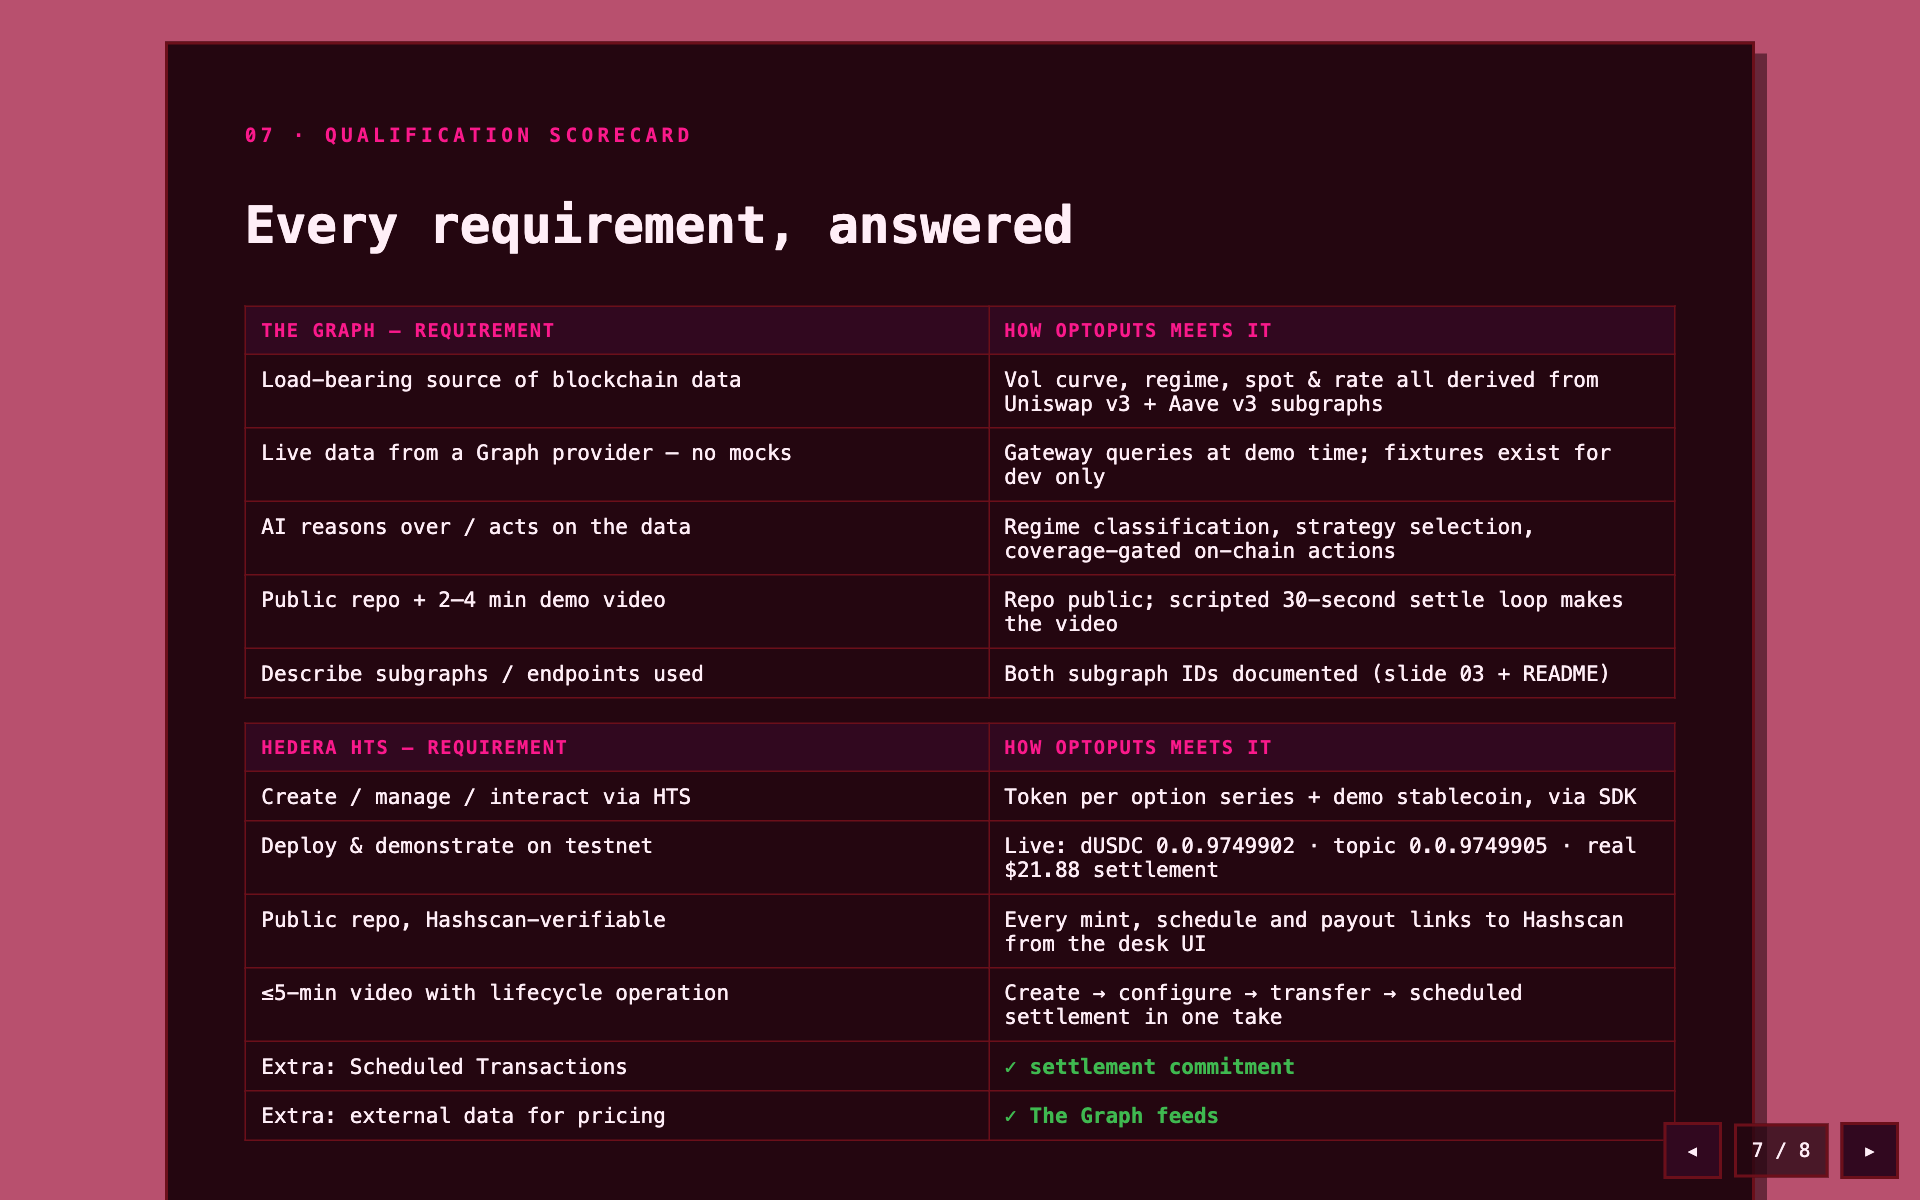
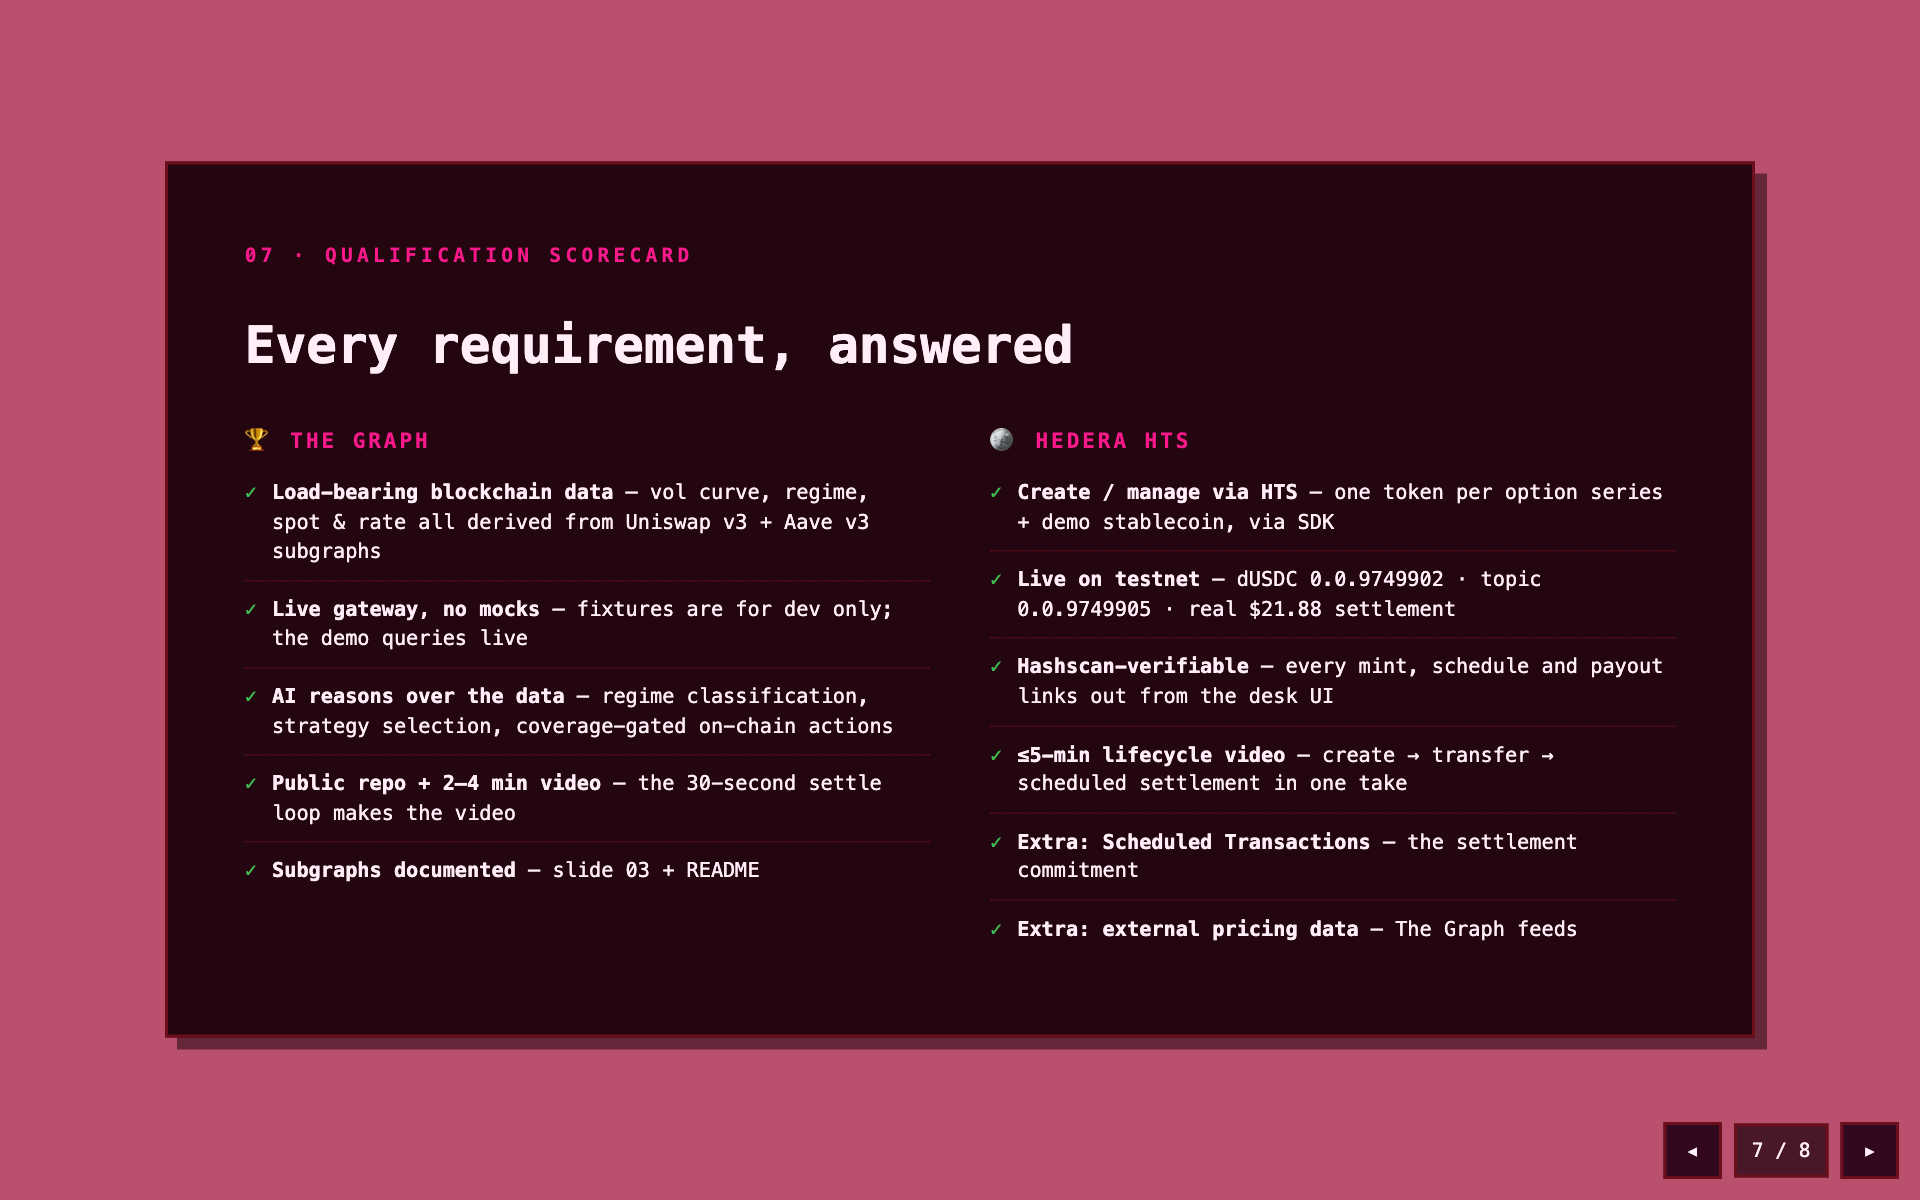
Deck: scorecard slide as flat two-column checklist, fits slide proportions
No nested rectangles: bordered tables replaced by tick rows with dotted
rules. README keeps the slide images only, no header links.

diff --git a/docs/pitch-deck.html b/docs/pitch-deck.html
@@ -132,6 +132,14 @@
   }
   .ledger b { color: var(--accent); }
 
+  /* scorecard: flat checklists — rules, not nested boxes */
+  .scoregrid { display: grid; grid-template-columns: repeat(auto-fit, minmax(300px, 1fr)); gap: 10px 40px; }
+  .scorecol { display: flex; flex-direction: column; }
+  .scorehead { margin: 0 0 4px; color: var(--accent); font-weight: 700; letter-spacing: 0.14em; text-transform: uppercase; font-size: 14px; }
+  .req { display: flex; gap: 10px; padding: 9px 0; border-bottom: 1px dotted var(--chrome); font-size: 13.5px; line-height: 1.45; }
+  .req:last-child { border-bottom: none; }
+  .req p { margin: 0; }
+  .req .tick { color: var(--green); font-weight: 700; }
   .steps { counter-reset: step; display: grid; grid-template-columns: repeat(auto-fit, minmax(200px, 1fr)); gap: 14px; }
   .step { background: var(--panel); border: 2px solid var(--chrome); padding: 14px; }
   .step::before {
@@ -289,23 +297,25 @@
 <section class="slide" id="s8"><div class="card stack">
   <p class="eyebrow">07 · Qualification scorecard</p>
   <h2>Every requirement, answered</h2>
-  <div class="tablewrap"><table>
-    <tr><th style="width:52%">The Graph — requirement</th><th>How OptoPuts meets it</th></tr>
-    <tr><td>Load-bearing source of blockchain data</td><td class="num">Vol curve, regime, spot &amp; rate all derived from Uniswap v3 + Aave v3 subgraphs</td></tr>
-    <tr><td>Live data from a Graph provider — no mocks</td><td>Gateway queries at demo time; fixtures exist for dev only</td></tr>
-    <tr><td>AI reasons over / acts on the data</td><td>Regime classification, strategy selection, coverage-gated on-chain actions</td></tr>
-    <tr><td>Public repo + 2–4 min demo video</td><td>Repo public; scripted 30-second settle loop makes the video</td></tr>
-    <tr><td>Describe subgraphs / endpoints used</td><td>Both subgraph IDs documented (slide 03 + README)</td></tr>
-  </table></div>
-  <div class="tablewrap"><table>
-    <tr><th style="width:52%">Hedera HTS — requirement</th><th>How OptoPuts meets it</th></tr>
-    <tr><td>Create / manage / interact via HTS</td><td>Token per option series + demo stablecoin, via SDK</td></tr>
-    <tr><td>Deploy &amp; demonstrate on testnet</td><td class="num">Live: dUSDC 0.0.9749902 · topic 0.0.9749905 · real $21.88 settlement</td></tr>
-    <tr><td>Public repo, Hashscan-verifiable</td><td>Every mint, schedule and payout links to Hashscan from the desk UI</td></tr>
-    <tr><td>≤5-min video with lifecycle operation</td><td>Create → configure → transfer → scheduled settlement in one take</td></tr>
-    <tr><td>Extra: Scheduled Transactions</td><td class="ok">✓ settlement commitment</td></tr>
-    <tr><td>Extra: external data for pricing</td><td class="ok">✓ The Graph feeds</td></tr>
-  </table></div>
+  <div class="scoregrid">
+    <div class="scorecol">
+      <p class="scorehead">🏆 The Graph</p>
+      <div class="req"><span class="tick">✓</span><p><b>Load-bearing blockchain data</b> — vol curve, regime, spot &amp; rate all derived from Uniswap v3 + Aave v3 subgraphs</p></div>
+      <div class="req"><span class="tick">✓</span><p><b>Live gateway, no mocks</b> — fixtures are for dev only; the demo queries live</p></div>
+      <div class="req"><span class="tick">✓</span><p><b>AI reasons over the data</b> — regime classification, strategy selection, coverage-gated on-chain actions</p></div>
+      <div class="req"><span class="tick">✓</span><p><b>Public repo + 2–4 min video</b> — the 30-second settle loop makes the video</p></div>
+      <div class="req"><span class="tick">✓</span><p><b>Subgraphs documented</b> — slide 03 + README</p></div>
+    </div>
+    <div class="scorecol">
+      <p class="scorehead">🪙 Hedera HTS</p>
+      <div class="req"><span class="tick">✓</span><p><b>Create / manage via HTS</b> — one token per option series + demo stablecoin, via SDK</p></div>
+      <div class="req"><span class="tick">✓</span><p><b>Live on testnet</b> — dUSDC 0.0.9749902 · topic 0.0.9749905 · real $21.88 settlement</p></div>
+      <div class="req"><span class="tick">✓</span><p><b>Hashscan-verifiable</b> — every mint, schedule and payout links out from the desk UI</p></div>
+      <div class="req"><span class="tick">✓</span><p><b>≤5-min lifecycle video</b> — create → transfer → scheduled settlement in one take</p></div>
+      <div class="req"><span class="tick">✓</span><p><b>Extra: Scheduled Transactions</b> — the settlement commitment</p></div>
+      <div class="req"><span class="tick">✓</span><p><b>Extra: external pricing data</b> — The Graph feeds</p></div>
+    </div>
+  </div>
 </div></section>
 
 <!-- 08 · CLOSE -->

diff --git a/frontend/public/pitch-deck.html b/frontend/public/pitch-deck.html
@@ -132,6 +132,14 @@
   }
   .ledger b { color: var(--accent); }
 
+  /* scorecard: flat checklists — rules, not nested boxes */
+  .scoregrid { display: grid; grid-template-columns: repeat(auto-fit, minmax(300px, 1fr)); gap: 10px 40px; }
+  .scorecol { display: flex; flex-direction: column; }
+  .scorehead { margin: 0 0 4px; color: var(--accent); font-weight: 700; letter-spacing: 0.14em; text-transform: uppercase; font-size: 14px; }
+  .req { display: flex; gap: 10px; padding: 9px 0; border-bottom: 1px dotted var(--chrome); font-size: 13.5px; line-height: 1.45; }
+  .req:last-child { border-bottom: none; }
+  .req p { margin: 0; }
+  .req .tick { color: var(--green); font-weight: 700; }
   .steps { counter-reset: step; display: grid; grid-template-columns: repeat(auto-fit, minmax(200px, 1fr)); gap: 14px; }
   .step { background: var(--panel); border: 2px solid var(--chrome); padding: 14px; }
   .step::before {
@@ -289,23 +297,25 @@
 <section class="slide" id="s8"><div class="card stack">
   <p class="eyebrow">07 · Qualification scorecard</p>
   <h2>Every requirement, answered</h2>
-  <div class="tablewrap"><table>
-    <tr><th style="width:52%">The Graph — requirement</th><th>How OptoPuts meets it</th></tr>
-    <tr><td>Load-bearing source of blockchain data</td><td class="num">Vol curve, regime, spot &amp; rate all derived from Uniswap v3 + Aave v3 subgraphs</td></tr>
-    <tr><td>Live data from a Graph provider — no mocks</td><td>Gateway queries at demo time; fixtures exist for dev only</td></tr>
-    <tr><td>AI reasons over / acts on the data</td><td>Regime classification, strategy selection, coverage-gated on-chain actions</td></tr>
-    <tr><td>Public repo + 2–4 min demo video</td><td>Repo public; scripted 30-second settle loop makes the video</td></tr>
-    <tr><td>Describe subgraphs / endpoints used</td><td>Both subgraph IDs documented (slide 03 + README)</td></tr>
-  </table></div>
-  <div class="tablewrap"><table>
-    <tr><th style="width:52%">Hedera HTS — requirement</th><th>How OptoPuts meets it</th></tr>
-    <tr><td>Create / manage / interact via HTS</td><td>Token per option series + demo stablecoin, via SDK</td></tr>
-    <tr><td>Deploy &amp; demonstrate on testnet</td><td class="num">Live: dUSDC 0.0.9749902 · topic 0.0.9749905 · real $21.88 settlement</td></tr>
-    <tr><td>Public repo, Hashscan-verifiable</td><td>Every mint, schedule and payout links to Hashscan from the desk UI</td></tr>
-    <tr><td>≤5-min video with lifecycle operation</td><td>Create → configure → transfer → scheduled settlement in one take</td></tr>
-    <tr><td>Extra: Scheduled Transactions</td><td class="ok">✓ settlement commitment</td></tr>
-    <tr><td>Extra: external data for pricing</td><td class="ok">✓ The Graph feeds</td></tr>
-  </table></div>
+  <div class="scoregrid">
+    <div class="scorecol">
+      <p class="scorehead">🏆 The Graph</p>
+      <div class="req"><span class="tick">✓</span><p><b>Load-bearing blockchain data</b> — vol curve, regime, spot &amp; rate all derived from Uniswap v3 + Aave v3 subgraphs</p></div>
+      <div class="req"><span class="tick">✓</span><p><b>Live gateway, no mocks</b> — fixtures are for dev only; the demo queries live</p></div>
+      <div class="req"><span class="tick">✓</span><p><b>AI reasons over the data</b> — regime classification, strategy selection, coverage-gated on-chain actions</p></div>
+      <div class="req"><span class="tick">✓</span><p><b>Public repo + 2–4 min video</b> — the 30-second settle loop makes the video</p></div>
+      <div class="req"><span class="tick">✓</span><p><b>Subgraphs documented</b> — slide 03 + README</p></div>
+    </div>
+    <div class="scorecol">
+      <p class="scorehead">🪙 Hedera HTS</p>
+      <div class="req"><span class="tick">✓</span><p><b>Create / manage via HTS</b> — one token per option series + demo stablecoin, via SDK</p></div>
+      <div class="req"><span class="tick">✓</span><p><b>Live on testnet</b> — dUSDC 0.0.9749902 · topic 0.0.9749905 · real $21.88 settlement</p></div>
+      <div class="req"><span class="tick">✓</span><p><b>Hashscan-verifiable</b> — every mint, schedule and payout links out from the desk UI</p></div>
+      <div class="req"><span class="tick">✓</span><p><b>≤5-min lifecycle video</b> — create → transfer → scheduled settlement in one take</p></div>
+      <div class="req"><span class="tick">✓</span><p><b>Extra: Scheduled Transactions</b> — the settlement commitment</p></div>
+      <div class="req"><span class="tick">✓</span><p><b>Extra: external pricing data</b> — The Graph feeds</p></div>
+    </div>
+  </div>
 </div></section>
 
 <!-- 08 · CLOSE -->
